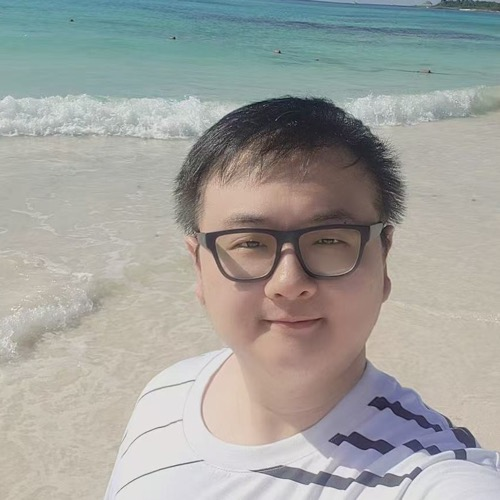
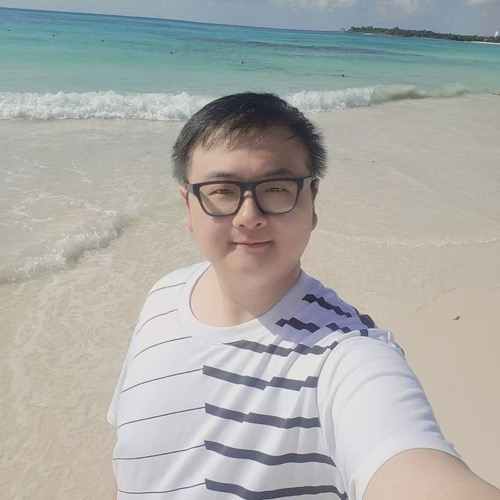
Use resized profile image and remove hero CTA

diff --git a/src/data/site.ts b/src/data/site.ts
@@ -16,8 +16,6 @@ export const profile = {
     "My current work develops and evaluates AI counsellor chatbots that can support smoking cessation using motivational interviewing principles. The work connects language-model generation, clinically grounded interaction design, and collaboration with health researchers and clinicians.",
   about:
     "I am interested in building AI systems that are technically rigorous and useful in real human contexts. Before my PhD, I worked on machine learning systems and benchmarking software, with experience spanning LLM agent workflows, computer vision, NLP, C++ inference implementations, and reinforcement learning research.",
-  researchProjectUrl:
-    "https://www.eecg.utoronto.ca/~jayar/chatbot-for-smoking-cessation.html",
   links: [
     {
       label: "Email",